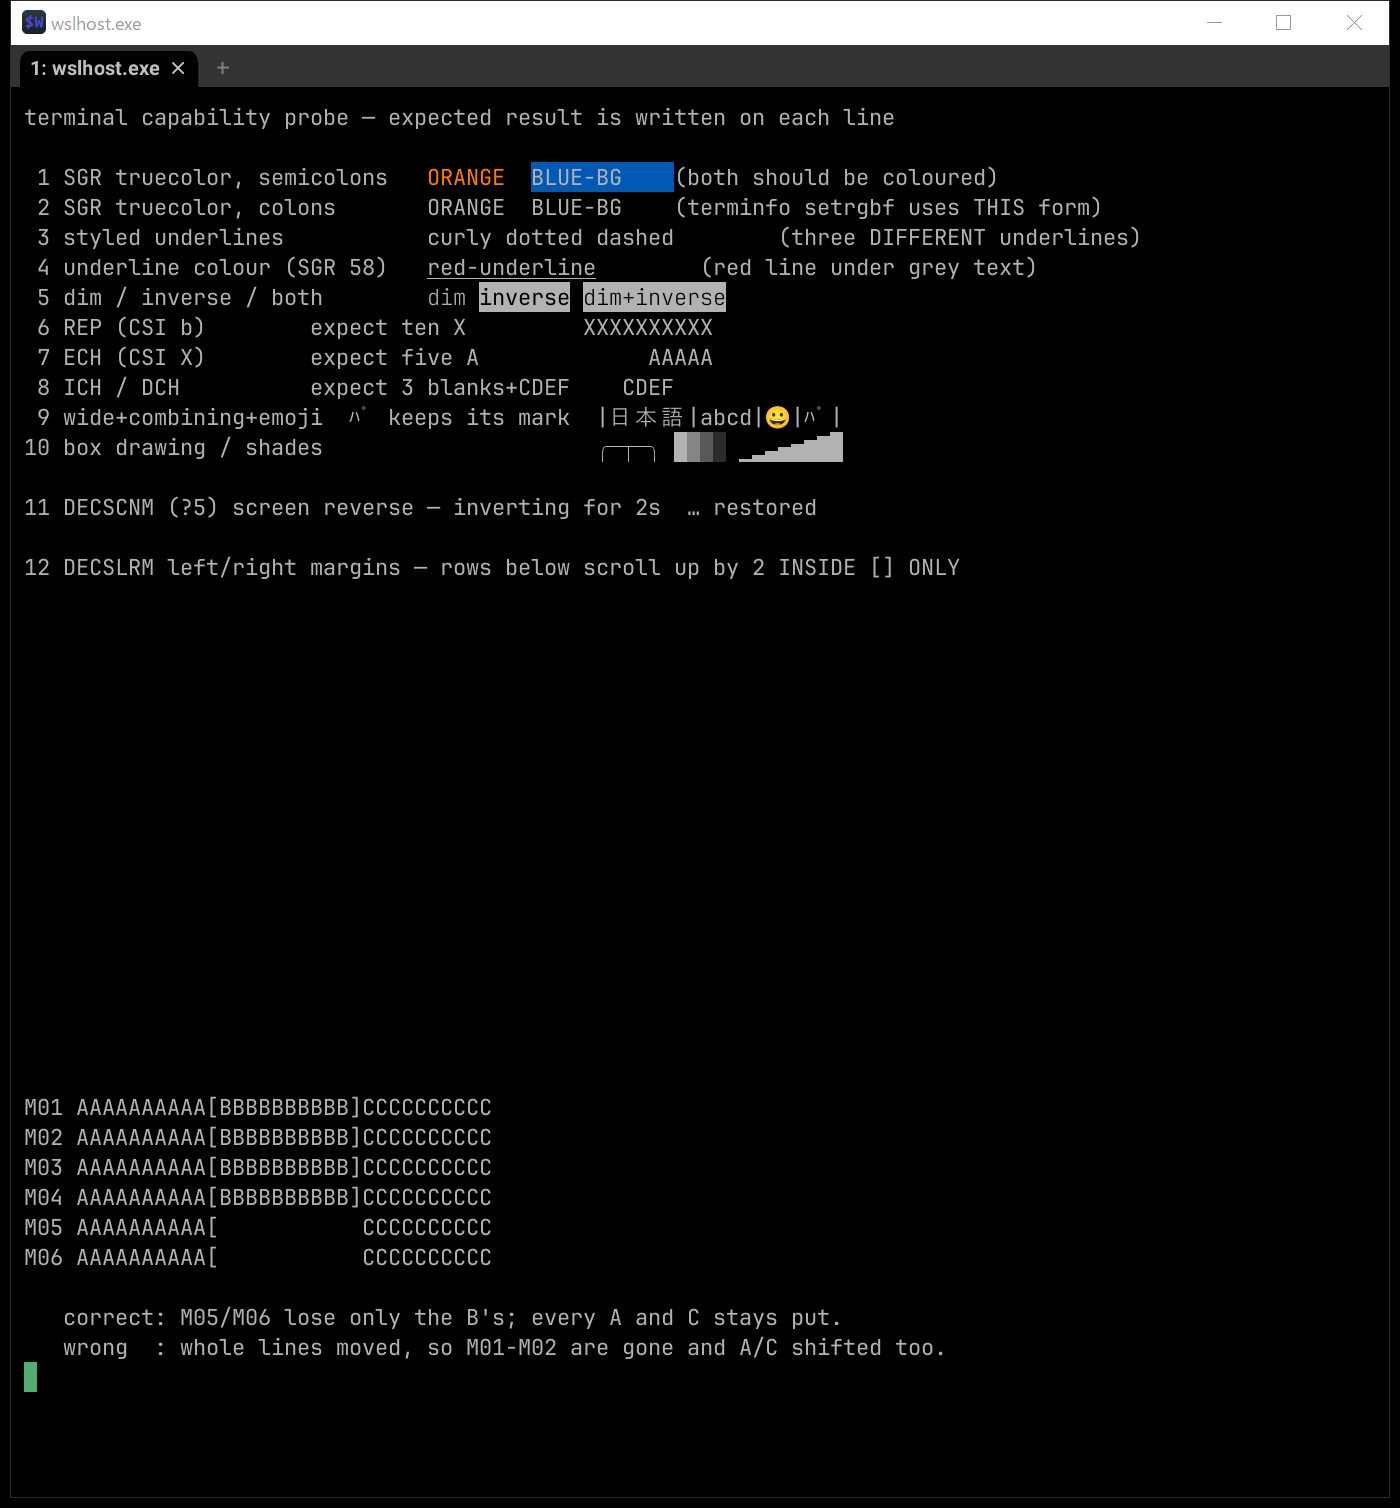
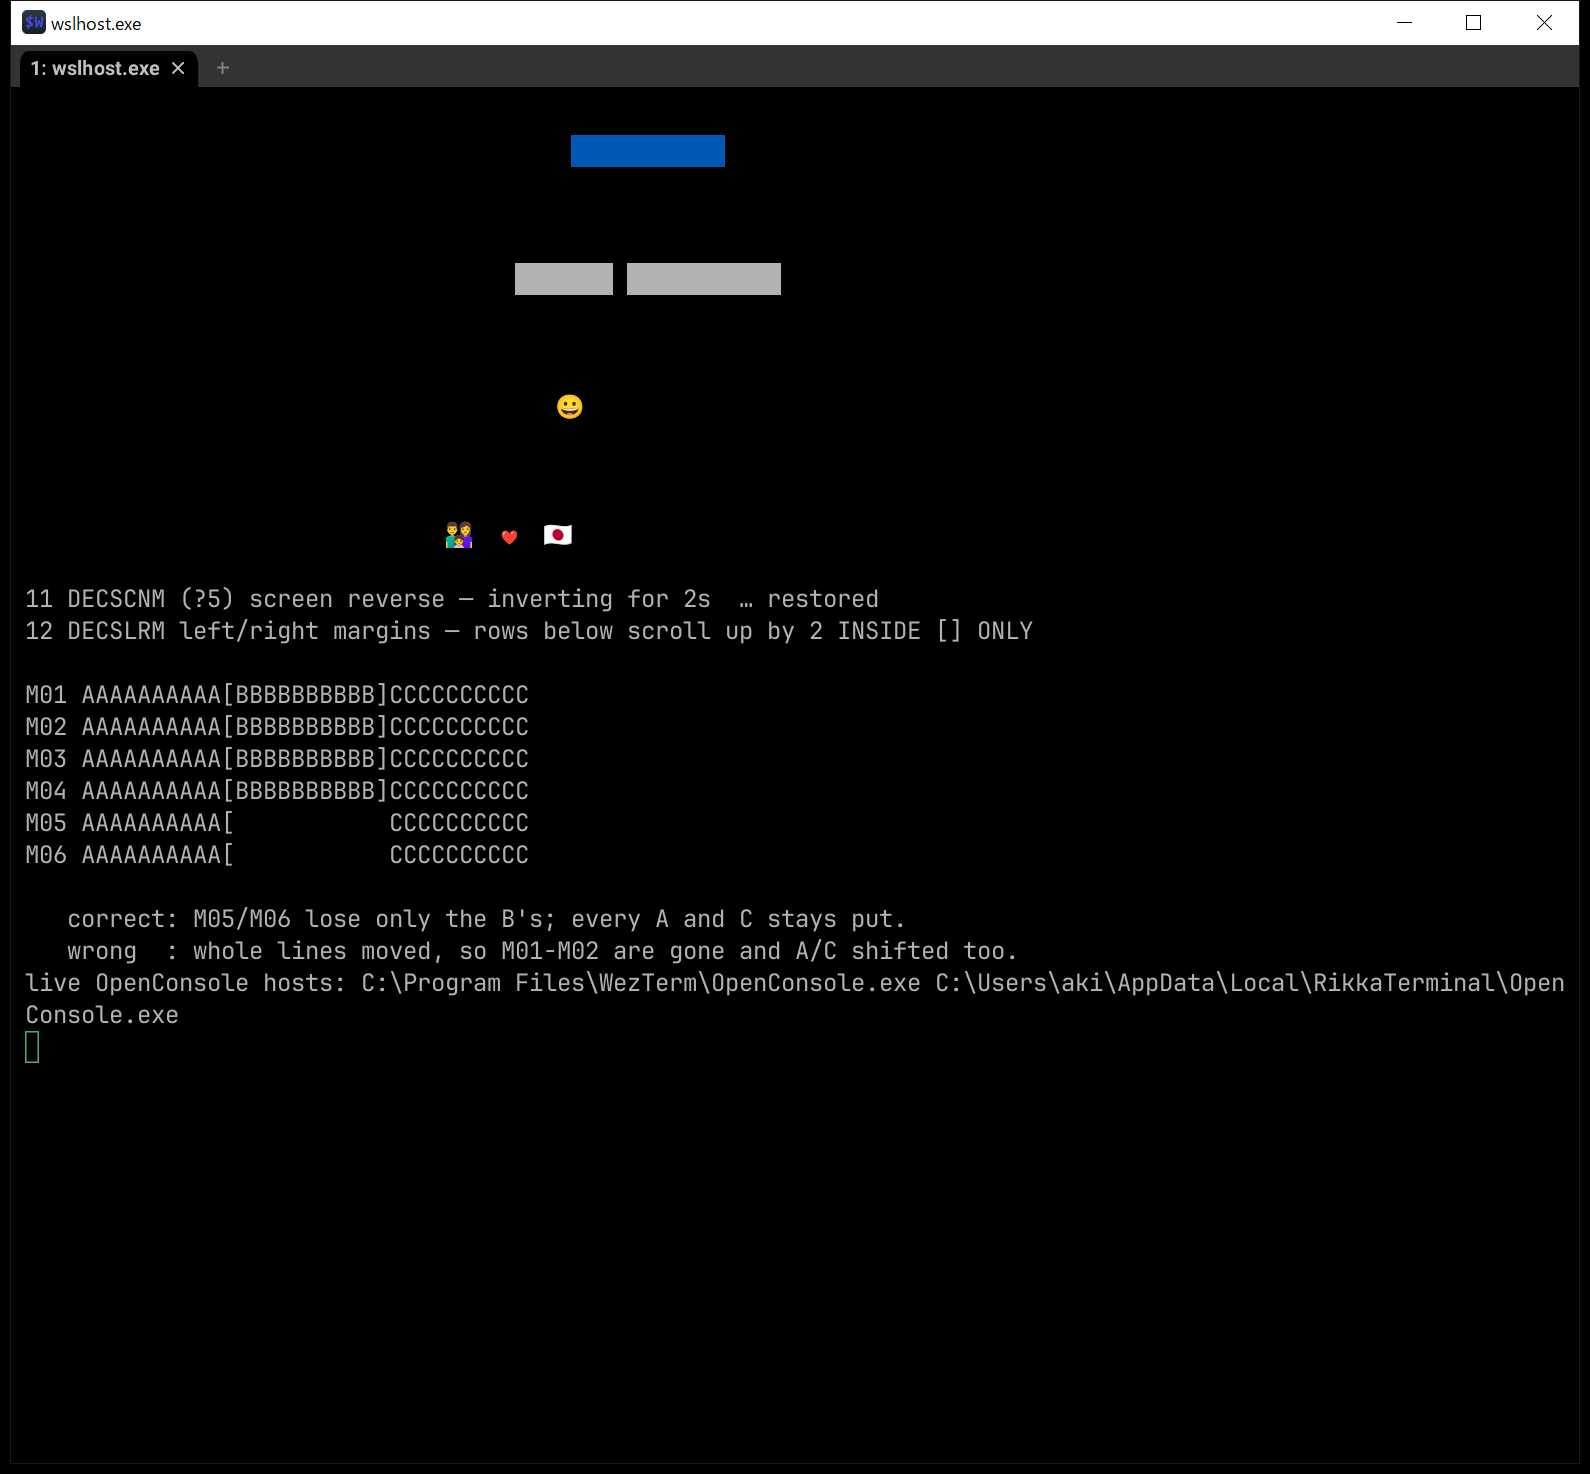
docs(compat): wezterm re-measured on both OSes — deficit escalated, glyphs sweep
Same 20240203 build, two conditions, one honest problem. The repaint
deficit is now unrecoverable on this machine: human mouse selection,
focus-free resize (including a row-count-changing reflow), z-order
fronting and PostMessage selection all failed to revive the region, on
Windows and Linux alike — the Linux run froze mid-DECSCNM and never
painted the restore. The "select and it comes back" escape hatch this page
documented is closed; the captures now show the deficit instead of hiding
it.

The verdicts survive anyway. The Windows frame carries the post-restore
half: DECSLRM correct via its own margin-interpreting 2024 host, the
attestation line naming that host, and surviving emoji already showing the
family composed, VS16 honoured, flag drawn. The mid-invert Linux frame
carries every glyph row in reverse video, and they sweep: パ/é compose,
ambiguous narrow, 9d whole. The old "no CJK fonts in the AppImage" caveat
no longer applies and is retired. The wezterm column's 9b-9d cells fill in
as the third clean glyph sweep on the page, behind a host that fails rows
2-4 for it on Windows.

Assisted-by: multi-agent-shogun-aki-tweak

diff --git a/docs/compat/README.md b/docs/compat/README.md
@@ -43,6 +43,16 @@ them forces the repaint that shows them. So a capability read from one of
 these windows is still valid once it has been painted; what is at risk is
 reading "missing" off a screenshot.
 
+Update, 2026-08-10 re-run: the escape hatch above no longer opens. On this
+machine the same build now sticks harder — real mouse selection by a human,
+focus-free resize/reflow (even one that changed the row count), z-order
+fronting, and background PostMessage selection all failed to revive the
+region, on Windows and on the Linux AppImage alike; the Linux run froze
+mid-DECSCNM and never painted the restore at all. The committed captures
+below therefore show the deficit rather than hide it, and the glyph
+verdicts were read from the mid-invert Linux frame, where every row is
+painted (in reverse video) because nothing after `?5l` had happened yet.
+
 How long it stays unpainted tracks the ConPTY generation, and not in the
 direction one would guess:
 
@@ -106,7 +116,14 @@ never scroll it away.
 ![wezterm running the probe](probe-wezterm.png)
 
 `wezterm-gui.exe 20240203-110809-5046fc22` — the current stable install on
-this machine.
+this machine. Re-shot 2026-08-10 under the current probe: what is painted is
+everything printed after the `?5l` restore — the DECSLRM block coming out
+correct (its own 2024 host interprets margins) and the attestation line
+naming that host — while rows 1-10 keep only their backgrounds and emoji,
+the deficit described above in its no-longer-recoverable form. The emoji
+that survive are themselves evidence: the ZWJ family is one glyph, the VS16
+heart is emoji-presentation, the flag is drawn. The full glyph verdicts
+(9b-9d columns in the table) were read from the Linux frame below.
 
 ## RikkaTerminal
 
@@ -125,11 +142,11 @@ this machine.
 | 7 | ECH (`CSI X`) | yes | yes | yes |
 | 8 | ICH / DCH | yes | yes | yes |
 | 9 | Wide chars, half-width pair `ﾊ`+`ﾟ`, emoji | yes (ring small and high) | side by side | side by side |
-| 9b | Combining marks (`ハ`+U+309A → パ, `e`+U+0301 → é) | yes | *not re-run* | yes |
-| 9c | Ambiguous width (`○×■│┐`) | narrow | *not re-run* | narrow |
-| 9d | Emoji ZWJ family | yes (one glyph, 2 cells) | *not re-run* | yes (fixed same day — see below) |
-| 9d | Emoji VS16 (`❤`+FE0F) | yes | *not re-run* | yes |
-| 9d | Emoji flag (RI pair 🇯🇵) | **letter fallback**, 4 cells | *not re-run* | yes (flag drawn) |
+| 9b | Combining marks (`ハ`+U+309A → パ, `e`+U+0301 → é) | yes | yes | yes |
+| 9c | Ambiguous width (`○×■│┐`) | narrow | narrow | narrow |
+| 9d | Emoji ZWJ family | yes (one glyph, 2 cells) | yes | yes (fixed same day — see below) |
+| 9d | Emoji VS16 (`❤`+FE0F) | yes | yes | yes |
+| 9d | Emoji flag (RI pair 🇯🇵) | **letter fallback**, 4 cells | yes (flag drawn) | yes (flag drawn) |
 | 10 | Box drawing and shade blocks | font glyphs | font glyphs | drawn as geometry |
 | 11 | DECSCNM (`?5`) screen reverse | yes | yes | yes |
 | 12 | DECSLRM left/right margins | yes | yes | yes |
@@ -144,8 +161,7 @@ two narrow cells side by side, and a true combining mark (`ハ` + U+309A),
 whose correct rendering is one wide cell with the ring attached. Re-run
 under the corrected probe, Windows Terminal and RikkaTerminal both render
 both correctly — including Windows Terminal's half-width ring, which is
-drawn small and high and had been misread as dropped. The wezterm captures
-predate the split; their row-9 entries describe the spacing pair only.
+drawn small and high and had been misread as dropped.
 
 The mislabeled test earned its keep anyway. Treating two spacing characters
 as if they combined is a real failure mode — rio 0.4.2 did exactly that,
@@ -388,13 +404,18 @@ console host is involved. Rows 2, 3 and 4 pass here and fail on Windows,
 which is what pins those failures on the bundled ConPTY rather than on
 wezterm.
 
-**Do not read the other rows off this image.** The AppImage sandbox has no
-CJK fonts, so row 9's `日本語` and `ﾊﾟ` come out as replacement boxes; that
-is the font situation in a stripped container, not the terminal dropping
-anything. wezterm says as much on startup ("You may wish to install
-additional fonts"). The window is also smaller and in a different font than
-the shots above. This picture exists to answer one question, and it is not
-comparable on the rest.
+The committed frame is **mid-DECSCNM**, deliberately: the 2026-08-10 run
+froze at the `?5` invert and never painted the restore (the escalated form
+of the repaint deficit described at the top of this page), so the one
+moment every row is on screen is during the invert — reverse video, cursor
+parked on row 11. An earlier revision of this section warned that the
+AppImage container had no CJK fonts; that is no longer the case, and the
+glyph rows are all readable and real. This frame is where the wezterm
+column's 9b-9d verdicts come from, and they are a clean sweep: パ and é
+compose, ambiguous advances narrow, the ZWJ family is one glyph, the VS16
+heart is emoji-presentation, the flag is drawn. A 2024 engine passes every
+glyph row on a real pty — width handling was never wezterm's problem
+either; on Windows the deficit and the host sit in front of it.
 
 ### Alacritty upstream — and what our fork actually adds
 
